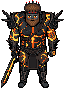
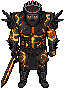
Boss head after second review: readable crown, near-black hair and beard (Task A1)
- The Ember Crown is a thicker black-iron ring seen from above, with
  1 px lit rims (new palette colour #9aa0a6, replacing the old beard
  brown #94603a), five lit/black spikes with red tips and three gems
  on the front band, so it reads at game size.
- Hair and beard are near-black, matching human Vulcan's palette, so
  the C3 swap no longer jumps from orange-brown to black.
- Body pixels unchanged (checked); notes and a PROGRESS entry with
  the three masters at 4x.

Changed region(s): [[0.3333, 0.0, 0.6364, 0.2921]]

diff --git a/art/vulcan_boss/notes.md b/art/vulcan_boss/notes.md
@@ -47,23 +47,30 @@ uv run --with pillow --with numpy --with scipy python art/sprites.py art/vulcan_
     --cols 1 --rows 1 --height 88 --touchup art/vulcan_boss/touchup.json --palette art/vulcan_boss/palette.png --out art/vulcan_boss/master.png
 ```
 
-- `--height 88`: the scale of the first build, kept so the body didn't change. The crown's spikes fill rows 0-2 and
-  the top of his hair is row 4, so from the hair to the feet he is 84 px, 4 px taller than human Vulcan. The armour,
-  the boots and the C3 ash cover the swap; if it still jumps, rebuild at a smaller height and redraw the head.
+- `--height 88`: the scale of the first build, kept so the body didn't change. The crown's spikes fill rows 0-3 and
+  its rim is row 4, so from the rim to the feet he is 84 px, 4 px taller than human Vulcan. The armour, the boots and
+  the C3 ash cover the swap; if it still jumps, rebuild at a smaller height and redraw the head.
 - Default `--quant median`: keeps the thin bright lava cracks (octree dulls them).
-- `palette.png` is the first build's 29 colours plus three added by hand for the new head: `#6e4429` and `#94603a`
-  (hair and beard) and `#5b6268` (the lit face). The palette lock snaps every touch-up colour to the nearest palette
-  colour, so a new colour has to be appended to `palette.png` first.
-- `touchup.json` (rows 0-26, x 23-41): the whole head was redrawn by hand after the 25 Oct review, because Gemini drew
-  it front-on: a flat-topped box of a crown with no hair under it, and a dark beard that vanished into the charcoal skin.
-  - The crown is a ring seen from above: a thin back arc behind the hair with three tall spikes (red tips), a back
-    spike at each side, the ring's sides at x 24 and 40, and the front band dipping over the forehead (a grey top edge,
-    three red gems, three short spikes into the hair).
-  - Inside the ring, the top of his head: dark brown hair swept back, as on human Vulcan.
-  - The face is a lighter stone grey (`#5b6268`) than the armour, so it no longer reads as a dark mask, with a little
-    brown hair at the temples running into a full mid-brown beard and moustache. That beard and hair are what tie him
-    to human Vulcan.
+- `palette.png` is the first build's 29 colours plus three added by hand for the head: `#6e4429` (now only 9 body
+  pixels the lock snaps to it), `#9aa0a6` (the crown's lit iron edge; it replaced the old beard brown `#94603a`) and
+  `#5b6268` (the lit face). The palette lock snaps every touch-up colour to the nearest palette colour, so a new colour
+  has to be in `palette.png` first. Swapping `#94603a` for `#9aa0a6` changed no body pixel (checked).
+- `touchup.json` (rows 0-26, x 23-41): the whole head is drawn by hand, because Gemini drew it front-on: a flat-topped
+  box of a crown with no hair under it, and a dark beard that vanished into the charcoal skin. Redone after the second
+  25 Oct review, which found the 1 px black crown lost in the outline and the brown hair and beard unlike human Vulcan's.
+  Edit the JSON directly: it is `[frame, x, y, colour]` per pixel, one row of the head per line.
+  - The crown is black iron (`#111213`), a ring seen from above (an ellipse x 23-41, rows 4-13) around the top of his
+    head. Its far half has a 1 px lit rim (`#9aa0a6`) on its outer edge; its near half, the front band, has the lit
+    rim along its top edge, where it meets the hair, with three red gems on it. Five spikes stand on the back arc, each
+    a lit column and a black one with a red tip: the centre one tallest (tip row 0), then rows 1 and 3.
+  - Inside the ring, the top of his head: near-black hair (`#2e201d`, shadow `#1d1819`, strands `#493129`), the boss
+    palette's matches for human Vulcan's `#241a13`, `#1b140d` and `#423128`.
+  - The face is a lighter stone grey (`#5b6268`) than the armour, so it doesn't read as a dark mask, with near-black
+    hair at the temples running into a full near-black beard and moustache in the same three colours. That beard and
+    hair are what tie him to human Vulcan.
   - The eyes are unchanged from the first touch-up: a molten iris `#fdde50`, a dark pupil `#2b0a04` and a pale
     catch-light `#fff6c8` on row 16, with a dark brow above and an orange glow `#ea5413` below.
-  - Animation strips: Gemini gets this master, so check at 8x that every frame keeps the ring, the brown hair and the
-    beard.
+  - Two raw red specks beside the spike tips, (29,1) and (26,3), are covered as tip outlines (a touch-up can't clear a
+    pixel), mirrored at (35,1) and (38,3).
+  - Animation strips: Gemini gets this master, so check at 8x that every frame keeps the ring's lit rims, the spikes,
+    the near-black hair and the beard.

diff --git a/docs/PROGRESS.md b/docs/PROGRESS.md
@@ -18,12 +18,33 @@ The 2.5D pixel-art version of Tales of Vulcan, in the style of Alabaster Dawn, w
 | Story | Same as the Unreal game: `D:\TalesOfVulkan\TalesOfVulkan\docs\STORY.md` | — |
 | Engine | Godot 4.7.2 Standard (GDScript) at `D:\GODOT`. Start: `play.bat` or the desktop shortcut "Tales of Vulcan 2.5D" | Put the project in git |
 | Look | Drawn at 640x360, scaled up 3x with no smoothing; camera looks down at 48.6°; blocks 32 px per metre; camera and sprites snap to whole pixels | Settle once the master sprite has the high view |
-| Master sprites | Elvis, possessed Vulcan and human Vulcan, 80 px (25 Oct): Gemini, seen from the high camera, eyes redrawn by hand, in `art/<c>/master.png`. After review, the boss's head (crown ring seen from above, brown hair and beard) and human Vulcan's eyes were redrawn by hand | Danyal checks them; then the pose-guide tool (Task A2) and the animations |
+| Master sprites | Elvis, possessed Vulcan and human Vulcan, 80 px (25 Oct): Gemini, seen from the high camera, eyes redrawn by hand, in `art/<c>/master.png`. After review, the boss's head (crown ring seen from above, near-black hair and beard like human Vulcan's) and human Vulcan's eyes were redrawn by hand | Danyal checks them; then the pose-guide tool (Task A2) and the animations |
 | Animations | Pose guides ready (25 Oct): `art/tools/pose_strip.py` renders grey pose strips from the CC0 motion library at the game's camera, and every animation is mapped to a clip or hand-keyed poses in `art/tools/clips.md` (5 strips checked) | Task A3: Gemini paints each strip over the master, most-seen animations first |
 | Levels | One test room (stone, raised blocks, pillars, lava) | — |
 | Colosseum snippet code | Task 1 of 6 done: pixel camera, sprites with fallback, controls, test runner (7 tests pass). `play.bat` now opens the placeholder game | Task 2: combat and Elvis |
 
 ## Log
+
+### 25 Oct 2026: the boss's crown and beard after a second review
+- **What:** a second review of the masters found two problems with the possessed Vulcan's hand-drawn head, and the head is drawn again.
+  - **Crown:** its 1 px black ring and spikes merged with the outline and the hair, so at game size it showed as five red dots and a dark headband. It is now a thicker black-iron ring seen from above, with a 1 px lit rim along its far edge and along the front band's top edge. Five spikes stand on the back arc, each with a lit side, a black side and a red tip; the tallest is in the middle. Three red gems sit on the front band.
+  - **Hair and beard:** they were warm mid-brown, while human Vulcan's are near-black, so the head jumped from orange-brown to black at C3, and the brown wrapped the grey face like a fur hood. Both are now near-black, in the boss palette's matches for human Vulcan's colours, with a few dark-brown strands.
+  - The face, the molten eyes, the body and the size are unchanged. Elvis and human Vulcan are unchanged.
+- **Why:** the crown is the thing Elvis has to strike, so it must read in play. The boss also has to read as the same man as human Vulcan when the crown drops.
+- **Where:**
+  - `art/vulcan_boss/touchup.json`: the head, rows 0-26.
+  - `art/vulcan_boss/palette.png`: the old beard brown `#94603a` is replaced by the crown's lit edge `#9aa0a6` (still 32 colours).
+  - `master.png` and `master_x4.png` were rebuilt with the command in `art/vulcan_boss/notes.md`, which explains the new head.
+- **Checked:**
+  - No body pixel changed.
+  - Every pixel is fully opaque or fully clear, with no magenta, as one connected shape.
+  - Every colour is in the palette.
+  - `master_x4.png` is an exact 4x, and the size is still 66x89.
+  - `sprites.py --selftest` passes.
+- **Claude's call:** the crown's lit edge is a cool light grey, a new colour, rather than ember orange. Grey reads against both the sand and the near-black hair, and keeps the crown black iron. The orange is kept for the crown's glow effects later.
+- **Claude's call:** the boss's hair and beard are near-black like human Vulcan's. This replaces the earlier call to make them mid-brown so they would show against the charcoal skin. The lighter grey face now does that job.
+
+![The three masters at 4x after the second review](progress/2026-10-25_masters_review2_x4.png)
 
 ### 25 Oct 2026: pose guides after review (the boss's slam and kneel)
 - **What:** a review of the pose-guide tool found two guides that would mislead Gemini, and both are remade.
